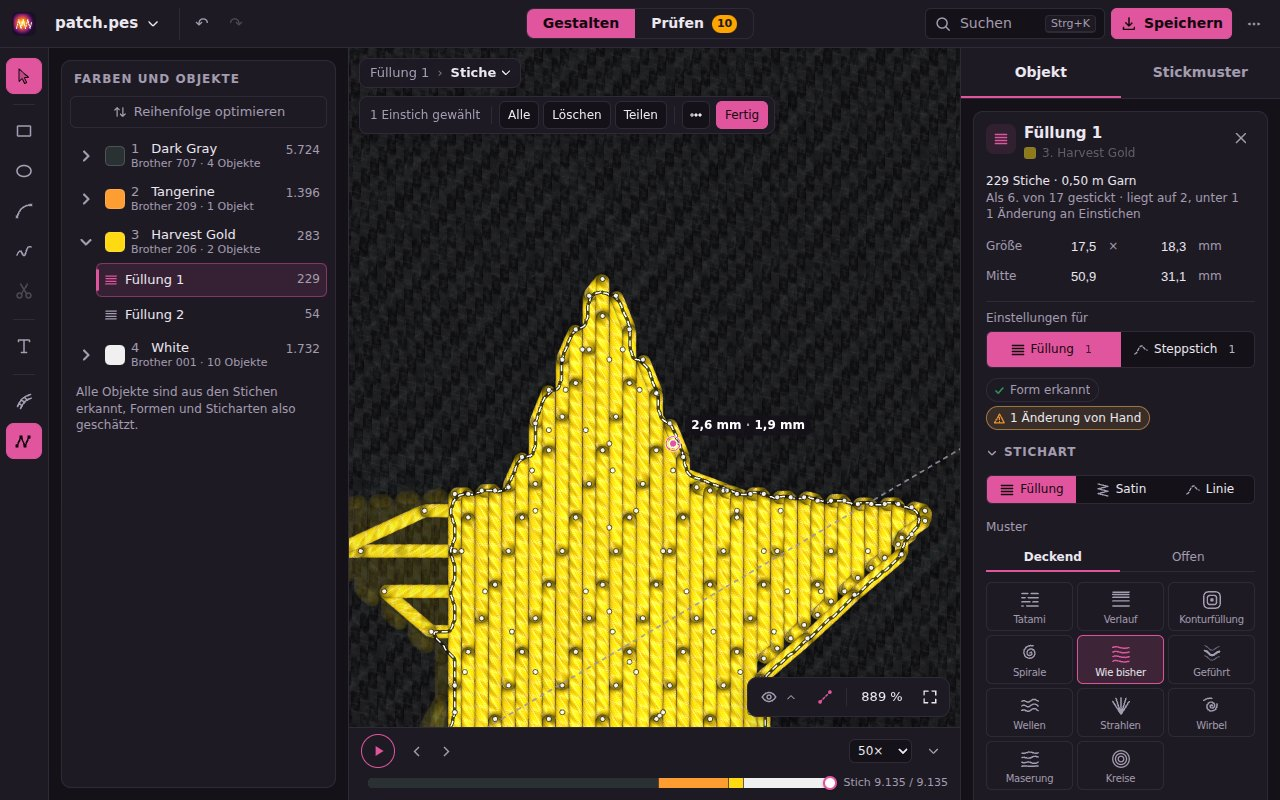
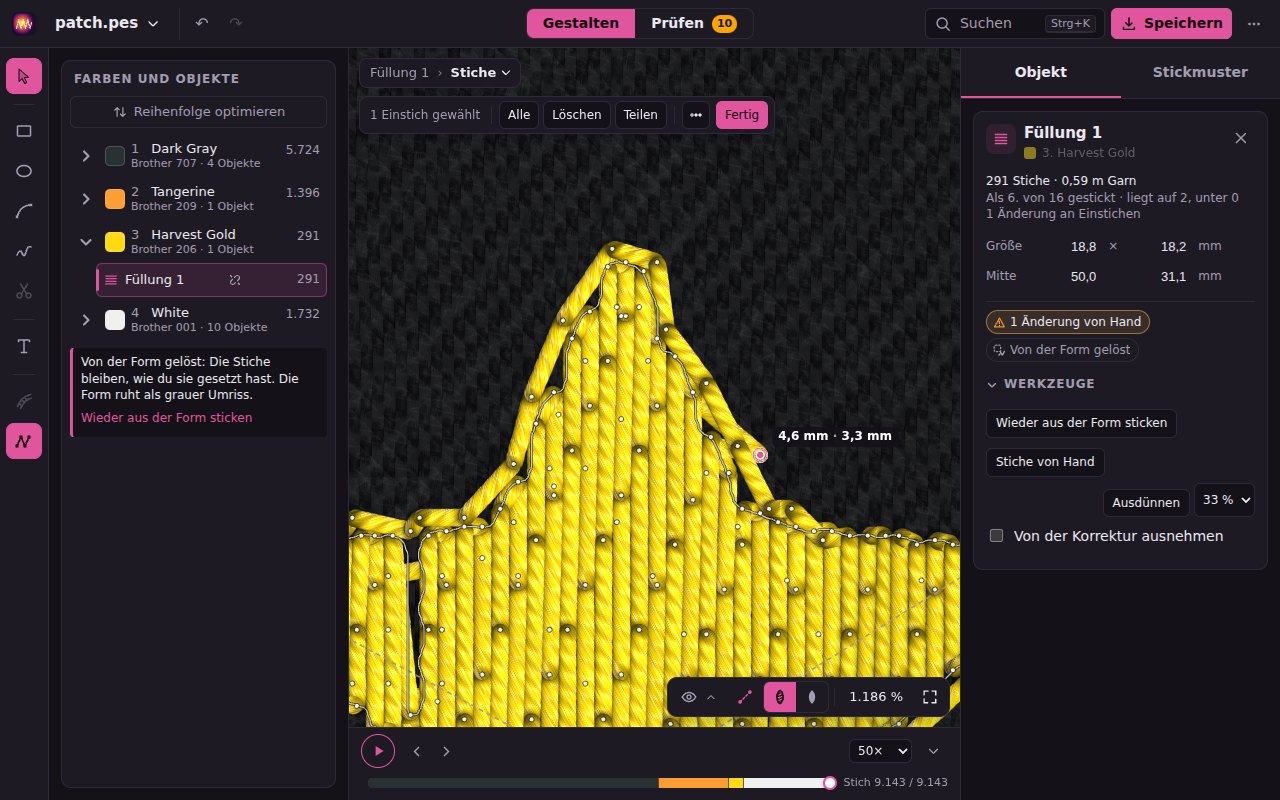
Guide: review round 1, the cat fully stitched, the whole star with a visible shift, a red roof
Claude-Session: https://claude.ai/code/session_01379gitMZ3UzT9w36uwz6PC

diff --git a/docs.html b/docs.html
@@ -87,8 +87,8 @@
         </nav>
         <div class="body">
         <figure>
-          <img src="/guide/cat-de.jpg" width="1280" height="800" alt="Die Beispielkatze in Gestalten, etwa zu zwei Dritteln gestickt: links die Farben mit ihren Objekten, unten der Player, rechts die Karte Stickmuster" />
-          <figcaption>Die Katze aus den Beispielen in <i>Gestalten</i>: Der Player unter der Bühne steht bei zwei Dritteln, das Fadenkreuz zeigt die Nadel. Links die Farben, die sich zu ihren Objekten aufklappen lassen, rechts die Karte <i>Stickmuster</i> mit Stickrahmen und Material.</figcaption>
+          <img src="/guide/cat-de.jpg" width="1280" height="800" alt="Die Beispielkatze in Gestalten, fertig gestickt in der realistischen Ansicht: links die Farben mit ihren Objekten, unten der Player, rechts die Karte Stickmuster" />
+          <figcaption>Die Katze aus den Beispielen in <i>Gestalten</i>, fertig gestickt in der realistischen Ansicht. Links die Farben, die sich zu ihren Objekten aufklappen lassen, unten der Player, mit dem du jeden Stich nachverfolgst, rechts die Karte <i>Stickmuster</i> mit Stickrahmen und Material.</figcaption>
         </figure>
 
         <h2 id="de-start">Schnellstart</h2>
@@ -369,7 +369,7 @@
         </p>
         <figure>
           <img src="/guide/stitches-de.jpg" width="1280" height="800" loading="lazy" alt="Der Stern aus patch.pes auf der Ebene Stiche: seine Einstiche als Punkte, einer gewählt mit den Längen seiner beiden Stiche, die Karte Objekt mit den Änderungen von Hand" />
-          <figcaption>Der Stern aus <a href="examples/demos/patch.pes" download>patch.pes</a> auf der Ebene <i>Stiche</i>: ein Einstich verschoben, das Etikett zeigt die beiden Stichlängen, die Karte zählt die Änderung.</figcaption>
+          <figcaption>Der Stern aus <a href="examples/demos/patch.pes" download>patch.pes</a>, zu einem Objekt zusammengefasst, auf der Ebene <i>Stiche</i>: ein Einstich zur Seite gezogen, die Reihe knickt sichtbar, das Etikett zeigt die beiden Stichlängen, die Karte zählt die Änderung.</figcaption>
         </figure>
 
         <h2 id="de-draw">Formen zeichnen</h2>
@@ -382,7 +382,7 @@
         </p>
         <figure>
           <img src="/guide/draw-de.jpg" width="1280" height="800" loading="lazy" alt="Ein kleines Haus, in heatstitch gezeichnet: ein Rechteck mit ausgeschnittenem runden Fenster, ein Dach mit dem Pfad-Werkzeug, eine Sonne und eine wellige Bodenlinie als Hilfslinie unter Nicht gestickt" />
-          <figcaption>Ein Stickmuster aus dem Nichts: ein Rechteck mit ausgeschnittenem Fenster, ein Dach mit dem Werkzeug <i>Pfad</i>, eine Sonne und der Boden als Hilfslinie, die nie gestickt wird.</figcaption>
+          <figcaption>Ein Stickmuster aus dem Nichts: ein Rechteck mit ausgeschnittenem Fenster, ein rotes Dach mit dem Werkzeug <i>Pfad</i>, eine gelbe Sonne in ihrem eigenen Garn und der Boden als Hilfslinie, die nie gestickt wird.</figcaption>
         </figure>
         <dl>
           <dt>Werkzeuge</dt>
@@ -890,8 +890,8 @@
         </nav>
         <div class="body">
         <figure>
-          <img src="/guide/cat-en.jpg" width="1280" height="800" alt="The example cat in Design, about two thirds sewn: the colors with their objects on the left, the player below, the Design card on the right" />
-          <figcaption>The cat from the examples in <i>Design</i>: the player under the stage stands at two thirds, the crosshair shows the needle. On the left the colors, which open to their objects, on the right the <i>Design</i> card with hoop and material.</figcaption>
+          <img src="/guide/cat-en.jpg" width="1280" height="800" alt="The example cat in Design, fully sewn in the realistic view: the colors with their objects on the left, the player below, the Design card on the right" />
+          <figcaption>The cat from the examples in <i>Design</i>, fully sewn in the realistic view. On the left the colors, which open to their objects, below the player that follows every stitch, on the right the <i>Design</i> card with hoop and material.</figcaption>
         </figure>
 
         <h2 id="en-start">Quick start</h2>
@@ -1169,7 +1169,7 @@
         </p>
         <figure>
           <img src="/guide/stitches-en.jpg" width="1280" height="800" loading="lazy" alt="The star of patch.pes opened at the level Stitches: its needle points as dots, one selected with the lengths of its two stitches, the Object card with the changes by hand" />
-          <figcaption>The star of <a href="examples/demos/patch.pes" download>patch.pes</a> at the <i>Stitches</i> level: one needle point moved, the label shows the two stitch lengths, the card counts the change.</figcaption>
+          <figcaption>The star of <a href="examples/demos/patch.pes" download>patch.pes</a>, combined into one object, at the <i>Stitches</i> level: one needle point pulled aside, the row bends visibly, the label shows the two stitch lengths, the card counts the change.</figcaption>
         </figure>
 
         <h2 id="en-draw">Draw shapes</h2>
@@ -1182,7 +1182,7 @@
         </p>
         <figure>
           <img src="/guide/draw-en.jpg" width="1280" height="800" loading="lazy" alt="A small house drawn in heatstitch: a rectangle with a round window cut out, a roof drawn with the Path tool, a sun, and a wavy ground line kept as a guide under Not sewn" />
-          <figcaption>A design from nothing: a rectangle with a cut-out window, a roof drawn with the <i>Path</i> tool, a sun, and the ground as a guide that is never sewn.</figcaption>
+          <figcaption>A design from nothing: a rectangle with a cut-out window, a red roof drawn with the <i>Path</i> tool, a yellow sun in its own thread, and the ground as a guide that is never sewn.</figcaption>
         </figure>
         <dl>
           <dt>Tools</dt>
